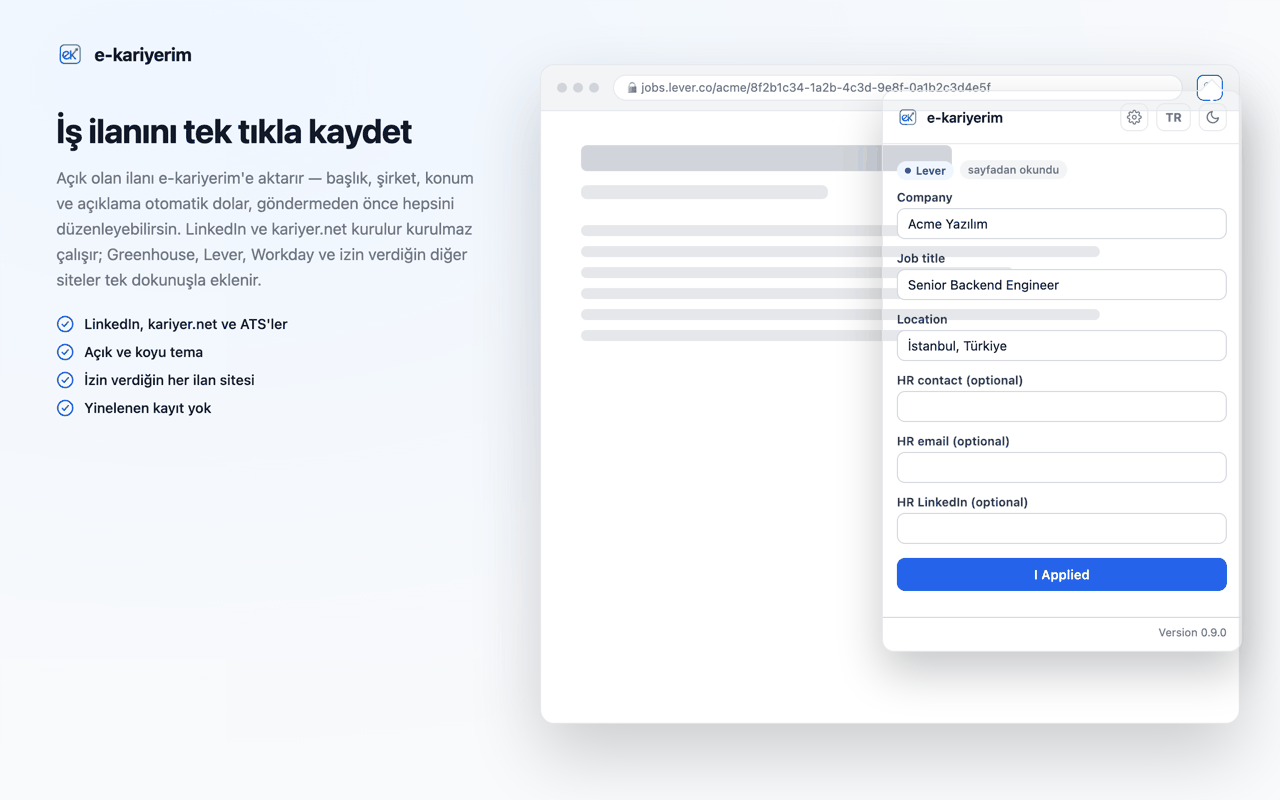
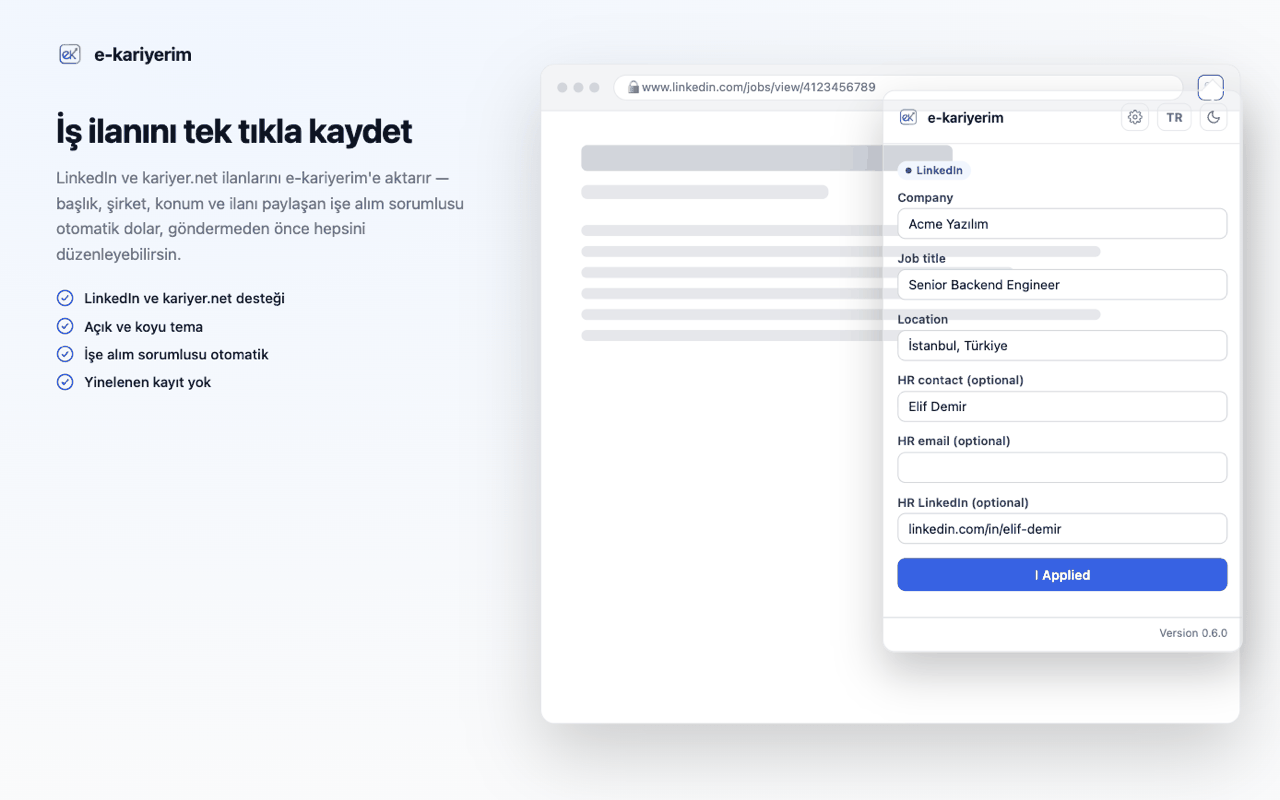
Keep the store screenshots free of third-party brands after the 0.9.0 rejection
0.9.0 was rejected for keyword spam over the six ATS names in its
description, and the rule that came out of it covers screenshots as much
as text: Store metadata does not carry third-party brands. The popup
scene reshot for this branch showed the extension over jobs.lever.co, so
it goes back to the LinkedIn posting, and the landing mock follows it
because a contract test pins the pair to one job.

Nothing is lost by it. The scene is still accurate — buildForm() renders
the provenance badge only for a page read through its markup, and
LinkedIn reports foundBy "linkedin", so the badge was never going to
appear there. And the site's own words are not Store metadata: the
landing copy and the help article still name the systems, which is the
part of this branch that matters.

The reshoot is still what caught the missing muted-badge rule in
popup.css, shipped in #92. That note is in screenshots/README.md.

diff --git a/extension/store-listing/screenshots/scene-job.html b/extension/store-listing/screenshots/scene-job.html
@@ -207,11 +207,11 @@
 
   <div class="headline">
     <h1>İş ilanını tek tıkla kaydet</h1>
-    <p>Açık olan ilanı e-kariyerim'e aktarır — başlık, şirket, konum ve açıklama otomatik dolar, göndermeden önce hepsini düzenleyebilirsin. LinkedIn ve kariyer.net kurulur kurulmaz çalışır; Greenhouse, Lever, Workday ve izin verdiğin diğer siteler tek dokunuşla eklenir.</p>
+    <p>LinkedIn ve kariyer.net ilanlarını e-kariyerim'e aktarır — başlık, şirket, konum ve ilanı paylaşan işe alım sorumlusu otomatik dolar, göndermeden önce hepsini düzenleyebilirsin.</p>
     <ul>
-      <li><svg class="check" viewBox="0 0 24 24" fill="none" stroke="currentColor" stroke-width="2" stroke-linecap="round" stroke-linejoin="round"><circle cx="12" cy="12" r="10"/><path d="M8 12.5l2.5 2.5L16 9"/></svg>LinkedIn, kariyer.net ve ATS'ler</li>
+      <li><svg class="check" viewBox="0 0 24 24" fill="none" stroke="currentColor" stroke-width="2" stroke-linecap="round" stroke-linejoin="round"><circle cx="12" cy="12" r="10"/><path d="M8 12.5l2.5 2.5L16 9"/></svg>LinkedIn ve kariyer.net desteği</li>
       <li><svg class="check" viewBox="0 0 24 24" fill="none" stroke="currentColor" stroke-width="2" stroke-linecap="round" stroke-linejoin="round"><circle cx="12" cy="12" r="10"/><path d="M8 12.5l2.5 2.5L16 9"/></svg>Açık ve koyu tema</li>
-      <li><svg class="check" viewBox="0 0 24 24" fill="none" stroke="currentColor" stroke-width="2" stroke-linecap="round" stroke-linejoin="round"><circle cx="12" cy="12" r="10"/><path d="M8 12.5l2.5 2.5L16 9"/></svg>İzin verdiğin her ilan sitesi</li>
+      <li><svg class="check" viewBox="0 0 24 24" fill="none" stroke="currentColor" stroke-width="2" stroke-linecap="round" stroke-linejoin="round"><circle cx="12" cy="12" r="10"/><path d="M8 12.5l2.5 2.5L16 9"/></svg>İşe alım sorumlusu otomatik</li>
       <li><svg class="check" viewBox="0 0 24 24" fill="none" stroke="currentColor" stroke-width="2" stroke-linecap="round" stroke-linejoin="round"><circle cx="12" cy="12" r="10"/><path d="M8 12.5l2.5 2.5L16 9"/></svg>Yinelenen kayıt yok</li>
     </ul>
   </div>
@@ -219,7 +219,7 @@
   <div class="browser">
     <div class="browser-chrome">
       <div class="dots"><span></span><span></span><span></span></div>
-      <div class="address">🔒 jobs.lever.co/acme/8f2b1c34-1a2b-4c3d-9e8f-0a1b2c3d4e5f</div>
+      <div class="address">🔒 www.linkedin.com/jobs/view/4123456789</div>
       <div class="toolbar-icon">
         <img src="../../icons/icon48.png" alt="" />
       </div>
@@ -250,7 +250,7 @@
         <button id="sceneThemeToggle" class="theme-toggle" type="button" aria-hidden="true" tabindex="-1"></button>
       </header>
       <main id="content">
-        <span class="site-badge">Lever</span><span class="site-badge muted-badge">sayfadan okundu</span>
+        <span class="site-badge">LinkedIn</span>
         <label>Company</label>
         <input type="text" value="Acme Yazılım" readonly />
         <label>Job title</label>
@@ -258,14 +258,14 @@
         <label>Location</label>
         <input type="text" value="İstanbul, Türkiye" readonly />
         <label>HR contact (optional)</label>
-        <input type="text" value="" readonly />
+        <input type="text" value="Elif Demir" readonly />
         <label>HR email (optional)</label>
         <input type="email" value="" readonly />
         <label>HR LinkedIn (optional)</label>
-        <input type="text" value="" readonly />
+        <input type="text" value="linkedin.com/in/elif-demir" readonly />
         <button class="primary">I Applied</button>
       </main>
-      <footer class="version-line">Version 0.9.0</footer>
+      <footer class="version-line">Version 0.6.0</footer>
     </div>
   </div>
   </div>

diff --git a/web/src/components/landing/ExtensionPopupMock.tsx b/web/src/components/landing/ExtensionPopupMock.tsx
@@ -4,15 +4,10 @@ import { SampleDataBadge } from "@/components/landing/SampleDataBadge";
 import { LogoMark } from "@/components/layout/Logo";
 
 /**
- * The extension's popup, open over an applicant-tracking-system job page, as markup with demo
- * values.
+ * The extension's popup, open over a LinkedIn job page, as markup with demo values.
  *
  * The values are the ones the Web Store screenshots use (extension/store-listing/screenshots/
- * scene-job.html), so the store and the site show the same job — a contract a test holds to. It
- * is an ATS posting rather than a LinkedIn one since 0.9.0, because that is the release's whole
- * point: the second badge is the popup's own "read from the page" note, which appears exactly
- * when the fields came from the page's schema.org markup rather than a site-specific reader. An
- * ATS posting publishes no hiring contact, so that field is empty here, as it is in the popup. The field labels come from the
+ * scene-job.html), so the store and the site show the same job. The field labels come from the
  * catalogue under the extension's own words — a Turkish visitor sees the popup a Turkish user gets.
  *
  * Accessibility: the whole thing is one picture. `role="img"` with a one-sentence label on the
@@ -21,12 +16,12 @@ import { LogoMark } from "@/components/layout/Logo";
  * badge sits outside the picture so it is announced.
  */
 const DEMO = {
-  url: "jobs.lever.co/acme/8f2b1c34-1a2b-4c3d-9e8f-0a1b2c3d4e5f",
-  source: "Lever",
+  url: "www.linkedin.com/jobs/view/4123456789",
+  source: "LinkedIn",
   company: "Acme Yazılım",
   jobTitle: "Senior Backend Engineer",
   location: "İstanbul, Türkiye",
-  contact: "",
+  contact: "Elif Demir",
 } as const;
 
 const SKELETON_WIDTHS = ["w-11/12", "w-5/6", "w-7/12", "w-10/12", "w-5/6", "w-11/12"];
@@ -68,9 +63,6 @@ export function ExtensionPopupMock({ className = "" }: { className?: string }) {
                 <span className="inline-flex w-fit items-center gap-1.5 rounded-full bg-accent-wash px-2 py-0.5 text-[11px] font-semibold text-accent-ink">
                   <span className="h-1.5 w-1.5 rounded-full bg-current" />
                   {DEMO.source}
-                </span>
-                <span className="-mt-1 inline-flex w-fit items-center rounded-full bg-gray-100 px-2 py-0.5 text-[11px] font-medium text-gray-500 dark:bg-gray-800 dark:text-gray-400">
-                  {t("readFromPage")}
                 </span>
                 {fields.map((field) => (
                   <div key={field.label}>

diff --git a/web/src/components/landing/landing.contract.test.ts b/web/src/components/landing/landing.contract.test.ts
@@ -153,26 +153,11 @@ describe("the extension mock", () => {
   });
 
   it("shows the same job as the Web Store screenshots", () => {
-    // The store shot and the landing mock are two hand-built pictures of one popup; the only thing
-    // keeping them from drifting apart is this list. Since 0.9.0 the job is an ATS posting — the
-    // release's own story — so the site badge and the "read from the page" note travel with it.
     const scene = read("../extension/store-listing/screenshots/scene-job.html");
-    for (const value of ["Acme Yazılım", "Senior Backend Engineer", "İstanbul, Türkiye", "Lever"]) {
+    for (const value of ["Acme Yazılım", "Senior Backend Engineer", "İstanbul, Türkiye", "Elif Demir"]) {
       expect(source, value).toContain(value);
       expect(scene, `${value} in scene-job.html`).toContain(value);
     }
-  });
-
-  it("carries the provenance note the popup renders for a page read through its markup", () => {
-    const scene = read("../extension/store-listing/screenshots/scene-job.html");
-    expect(source).toContain('t("readFromPage")');
-    expect(scene).toContain("muted-badge");
-  });
-
-  /** An ATS posting publishes no hiring contact, and the popup leaves that field empty — showing a
-   *  name there would advertise something the capture cannot do on these sites. */
-  it("shows no hiring contact on the ATS posting", () => {
-    expect(source).not.toContain("Elif Demir");
   });
 });
 

diff --git a/extension/store-listing/screenshots/README.md b/extension/store-listing/screenshots/README.md
@@ -18,31 +18,22 @@ showing the old logo. Prefer a shared asset over a copied glyph here.
 
 ## Regenerating them
 
-Last shot 2026-09-22 for `0.9.0` — all three.
+Last shot 2026-09-22 for `0.9.0` — `options-light.png` only.
 
-`options-light.png` for the "Sites you allowed" section Settings gained with the per-site runtime
-permission.
+The two popup shots were reshot once, on an ATS posting with the provenance badge, and then put
+back. `0.9.0` was rejected for keyword spam over the six ATS names in its description
+(PUBLISHING_CHECKLIST.md), and the rule that came out of it covers screenshots too: Store metadata
+does not carry third-party brands. A shot of the popup over `jobs.lever.co` is a third-party brand
+in metadata, so the scene stays on the LinkedIn posting — which is also still accurate, since
+`buildForm()` renders the provenance badge only for `foundBy === "jsonld"`/`"meta"` and LinkedIn
+reports `"linkedin"`. The site's own landing mock follows the scene because a contract test pins
+the pair; the site's *text* is free to name the systems, and does.
 
-`popup-light.png` / `popup-dark.png` were reshot too, and the first reason to leave them alone
-turned out to be the wrong one. The badge argument said: `0.9.0` adds a provenance badge that
-`buildForm()` renders only for `foundBy === "jsonld"`/`"meta"`, the scene shows a LinkedIn job
-(`foundBy: "linkedin"`), so the badge would not appear and the shot was still accurate. True as far
-as it goes — but the scene is a *marketing* composition, and its copy said "LinkedIn ve kariyer.net
-desteği" and "Version 0.6.0" while the release it illustrates is the one that stops the extension
-being a two-site tool. The screenshot was not stale in its widget rendering; it was stale in what
-it promised. The scene is now a Lever posting with the provenance badge beside the site badge, the
-bullets name the ATS family and the runtime permission, and the version line reads 0.9.0.
-
-**That reshoot caught a second styling bug**, the same way the options one did. `buildForm()`
-renders the provenance note as `<span class="site-badge muted-badge">` — and `muted-badge` did not
-exist in `popup.css`. The note therefore rendered in the accent pill, identical to the site badge
-next to it, so "Greenhouse · sayfadan okundu" read as two site names. `popup.css` now carries the
-modifier (muted surface, no leading dot). Reviewing the markup would not have shown it; rendering
-it did.
-
-The help centre's `chrome-extension-popup.png` was *not* reshot, and here the badge argument does
-hold: it is the real `popup.html` on a LinkedIn job, where `foundBy` is `"linkedin"` and no
-provenance badge renders. Nothing else in that view changed.
+**The one reshoot did catch a real styling bug**, which is why it was worth doing anyway:
+`buildForm()` renders the provenance note as `<span class="site-badge muted-badge">` and
+`muted-badge` did not exist in `popup.css`, so the note rendered in the accent pill, identical to
+the site badge beside it — "Greenhouse · sayfadan okundu" read as two site names. The modifier is
+in `popup.css` now. Reviewing the markup would not have shown it; rendering it did.
 
 `scene-options.html` had to lose two rows to fit: the "Not connected yet." status and the "Enter a
 key by hand" row. The canvas is a fixed 1280×800 and the card grew by a whole section; without that
